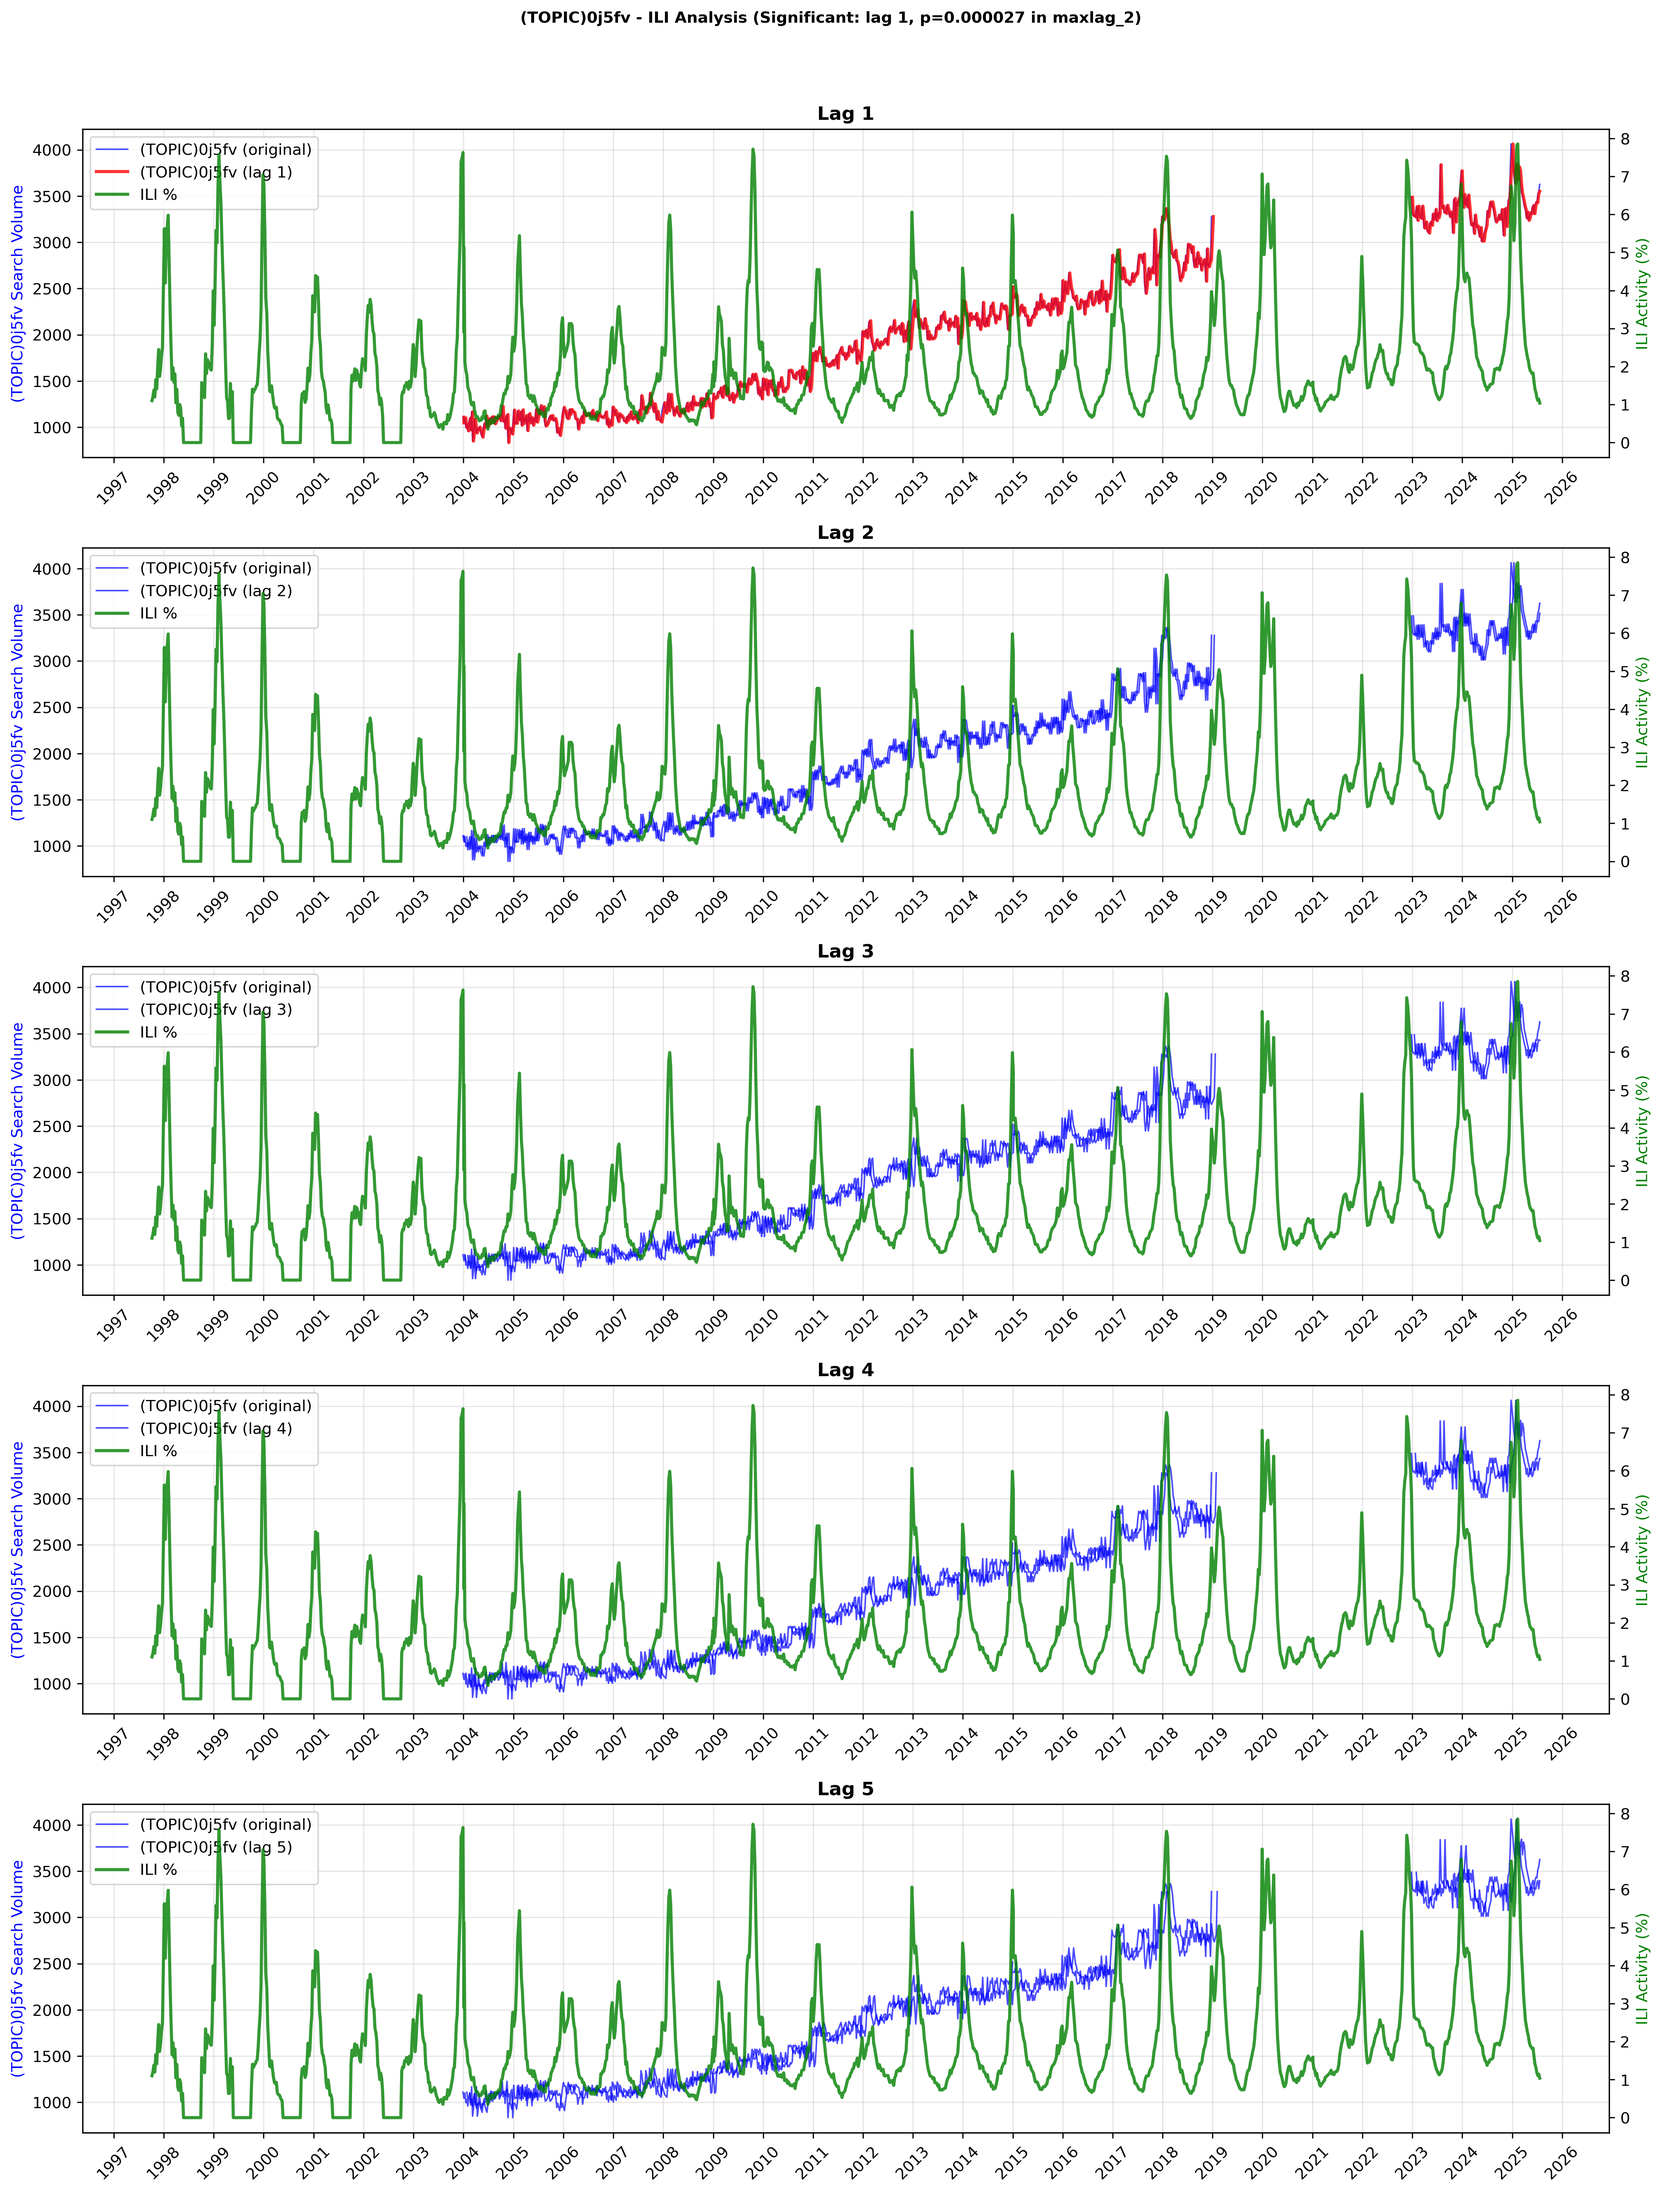
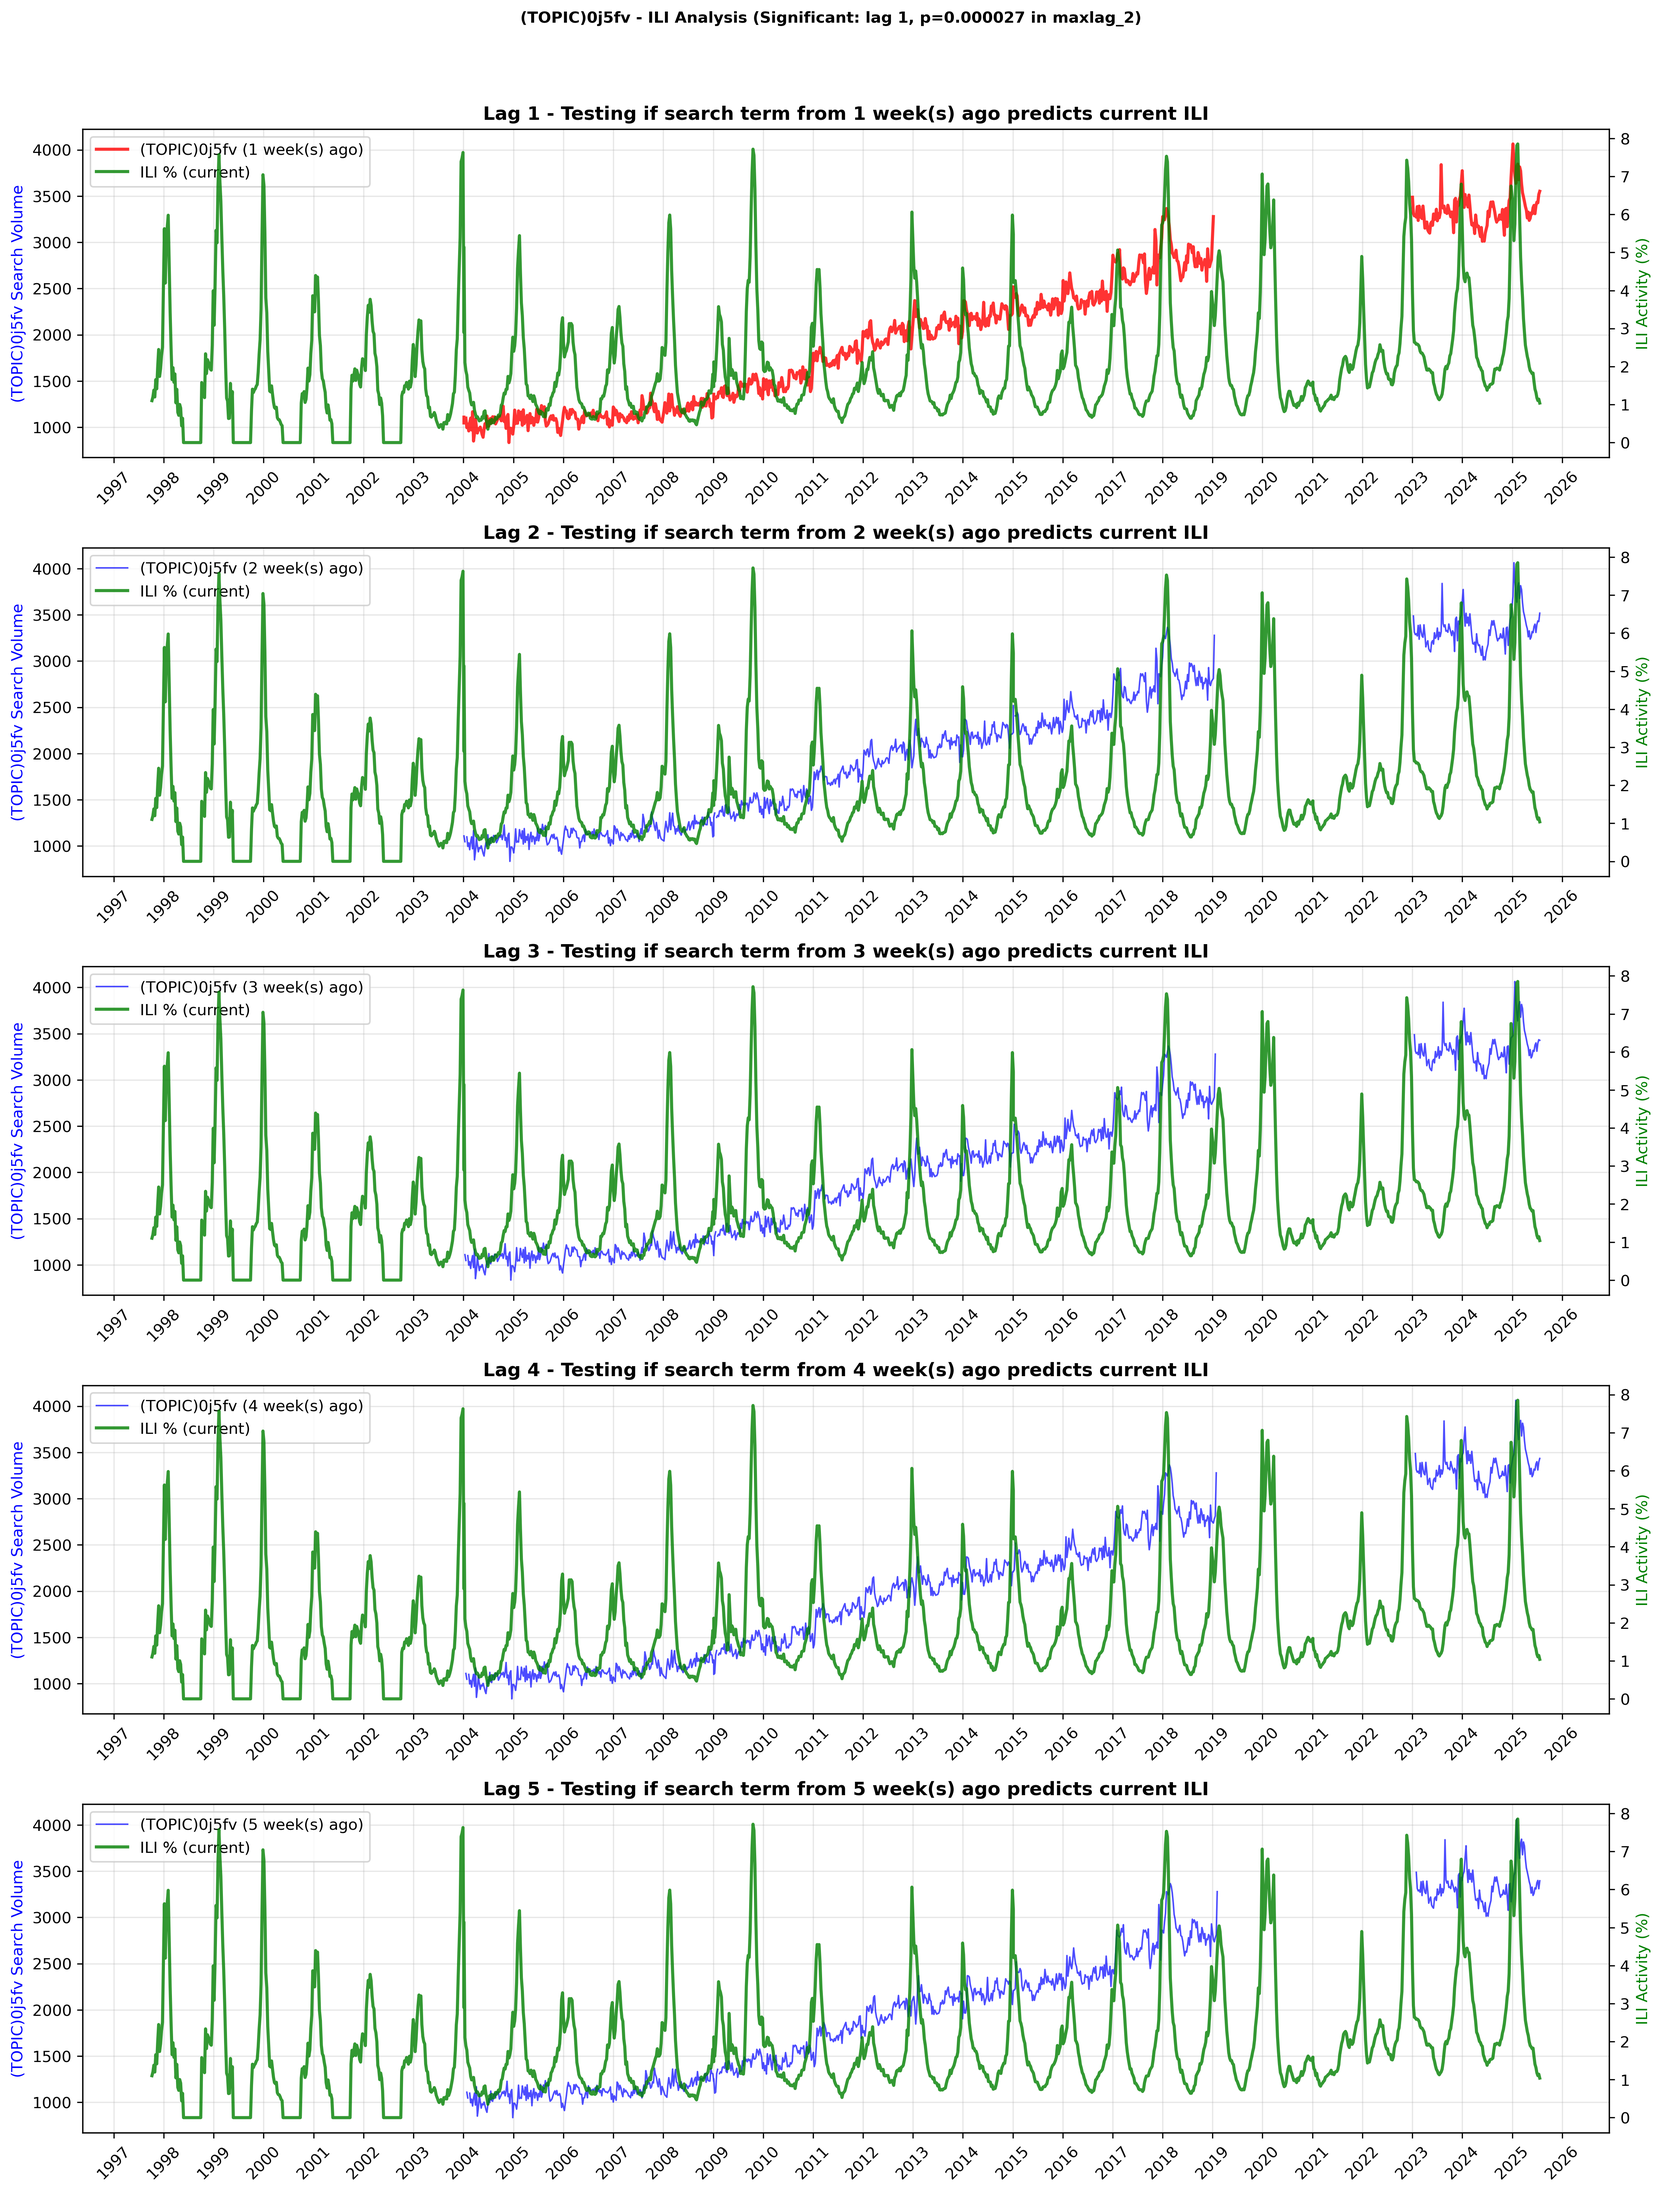
finally

diff --git a/Code/new/time_series_analysis_specific.py b/Code/new/time_series_analysis_specific.py
@@ -147,18 +147,18 @@ def create_nrevss_plot(term, df_nrevss, significant_lags, term_significant, term
         # Plot lagged search term (highlight if significant) - left y-axis
         # The lagged data shows what the search term was 'lag' weeks ago at each current time point
         if lag in significant_lags:
-            ax.plot(x, df_nrevss[f'{term}_lag{lag}'], label=f'{term} ({lag} week(s) ago)', color='red', alpha=0.8, linewidth=2)
+            ax.plot(x, df_nrevss[f'{term}_lag{lag}'], label=f'{term} ({lag} week(s) ago)', color='orange', alpha=0.8, linewidth=2)
         else:
             ax.plot(x, df_nrevss[f'{term}_lag{lag}'], label=f'{term} ({lag} week(s) ago)', color='blue', alpha=0.7, linewidth=1)
         
-        # Plot normalized NREVSS data - right y-axis (current time)
+        # Plot normalized NREVSS data - right y-axis
         ax2 = ax.twinx()
-        ax2.plot(x, df_nrevss['flu_pct_positive_normalized'], label='NREVSS % (normalized, current)', color='orange', alpha=0.8, linewidth=2)
+        ax2.plot(x, df_nrevss['flu_pct_positive_normalized'], label='NREVSS % (normalized, current)', color='brown', alpha=0.8, linewidth=2)
         
         # Customize plot
         ax.set_title(f'Lag {lag} - Testing if search term from {lag} week(s) ago predicts current NREVSS', fontweight='bold')
         ax.set_ylabel(f'{term} Search Volume', color='blue')
-        ax2.set_ylabel('NREVSS Activity (normalized)', color='orange')
+        ax2.set_ylabel('NREVSS Activity (normalized)', color='brown')
         ax.grid(True, alpha=0.3)
         
         # Add legends
@@ -225,13 +225,23 @@ def create_combined_plot(term, df_ili, df_nrevss, term_significant, term_dir):
         # Plot search term data (use ILI dates as reference) - left y-axis
         x = df_ili['date']
         
-        # Plot lagged search term (highlight if significant in either test) - left y-axis
+        # Plot lagged search term with different colors based on significance
         # The lagged data shows what the search term was 'lag' weeks ago at each current time point
-        is_significant = (lag in ili_significant_lags) or (lag in nrevss_significant_lags)
-        if is_significant:
-            ax.plot(x, df_ili[f'{term}_lag{lag}'], label=f'{term} ({lag} week(s) ago)', color='red', alpha=0.8, linewidth=2)
+        is_ili_significant = lag in ili_significant_lags
+        is_nrevss_significant = lag in nrevss_significant_lags
+        
+        if is_ili_significant and is_nrevss_significant:
+            # Significant in both tests - purple
+            ax.plot(x, df_ili[f'{term}_lag{lag}'], label=f'{term} ({lag} week(s) ago) - ILI & NREVSS significant', color='purple', alpha=0.8, linewidth=3)
+        elif is_ili_significant:
+            # Significant in ILI only - red
+            ax.plot(x, df_ili[f'{term}_lag{lag}'], label=f'{term} ({lag} week(s) ago) - ILI significant', color='red', alpha=0.8, linewidth=2)
+        elif is_nrevss_significant:
+            # Significant in NREVSS only - orange
+            ax.plot(x, df_ili[f'{term}_lag{lag}'], label=f'{term} ({lag} week(s) ago) - NREVSS significant', color='orange', alpha=0.8, linewidth=2)
         else:
-            ax.plot(x, df_ili[f'{term}_lag{lag}'], label=f'{term} ({lag} week(s) ago)', color='blue', alpha=0.7, linewidth=1)
+            # Not significant in either test - blue
+            ax.plot(x, df_ili[f'{term}_lag{lag}'], label=f'{term} ({lag} week(s) ago) - Not significant', color='blue', alpha=0.7, linewidth=1)
         
         # Plot both normalized flu datasets - right y-axis (current time)
         ax2 = ax.twinx()
@@ -243,10 +253,20 @@ def create_combined_plot(term, df_ili, df_nrevss, term_significant, term_dir):
         # Handle duplicate dates by taking the mean
         nrevss_data = df_nrevss.groupby('date')['flu_pct_positive_normalized'].mean()
         nrevss_aligned = nrevss_data.reindex(x).ffill()
-        ax2.plot(x, nrevss_aligned, label='NREVSS % (normalized, current)', color='orange', alpha=0.8, linewidth=2)
+        ax2.plot(x, nrevss_aligned, label='NREVSS % (normalized, current)', color='brown', alpha=0.8, linewidth=2)
         
-        # Customize plot
-        ax.set_title(f'Lag {lag} - Testing if search term from {lag} week(s) ago predicts current flu activity', fontweight='bold')
+        # Create enhanced subplot title showing significance
+        title_parts = [f'Lag {lag}']
+        if is_ili_significant:
+            title_parts.append('ILI ✓')
+        if is_nrevss_significant:
+            title_parts.append('NREVSS ✓')
+        if not is_ili_significant and not is_nrevss_significant:
+            title_parts.append('Not significant')
+        
+        subplot_title = f"{' | '.join(title_parts)} - Testing if search term from {lag} week(s) ago predicts current flu activity"
+        ax.set_title(subplot_title, fontweight='bold')
+        
         ax.set_ylabel(f'{term} Search Volume', color='blue')
         ax2.set_ylabel('Flu Activity (normalized)', color='green')
         ax.grid(True, alpha=0.3)
